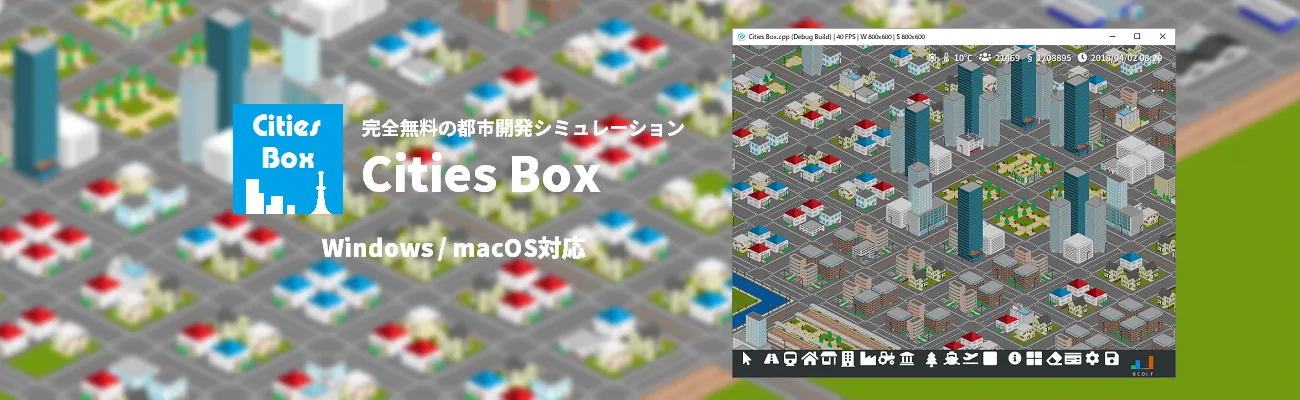
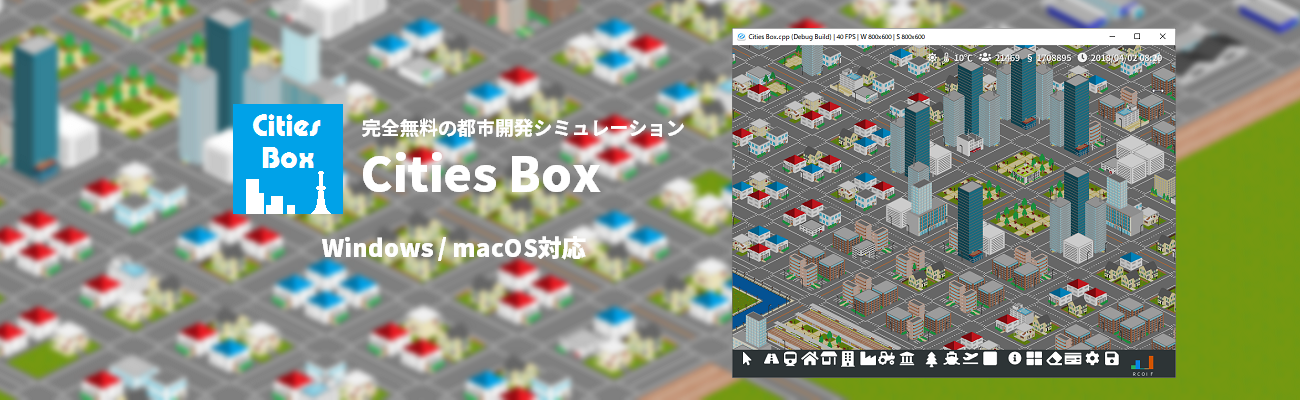
画像を高品質化

diff --git a/index.html b/index.html
@@ -74,7 +74,9 @@
 
     <div id="main_wrap">
       <div id="fullcolumn">
-        <a href="http://yotiosoft.com/citiesbox/"><img src="./img/top/cities_box_20200809.webp" /></a>
+        <a href="http://yotiosoft.com/citiesbox/">
+          <img src="./img/top/cities_box_20200809.webp" />
+        </a>
       </div>
     </div>
 

diff --git a/style.css b/style.css
@@ -229,6 +229,19 @@ header {
   width: 100%;
 }
 
+figure {
+  position: relative;
+}
+
+figure figcaption {
+  color: #ffffff;
+  position: absolute;
+  top: 0;
+  margin: 0;
+  align-items: center;
+  justify-content: center;
+}
+
 #sidebar {
   width: 200px;
   margin-left: 10px;
